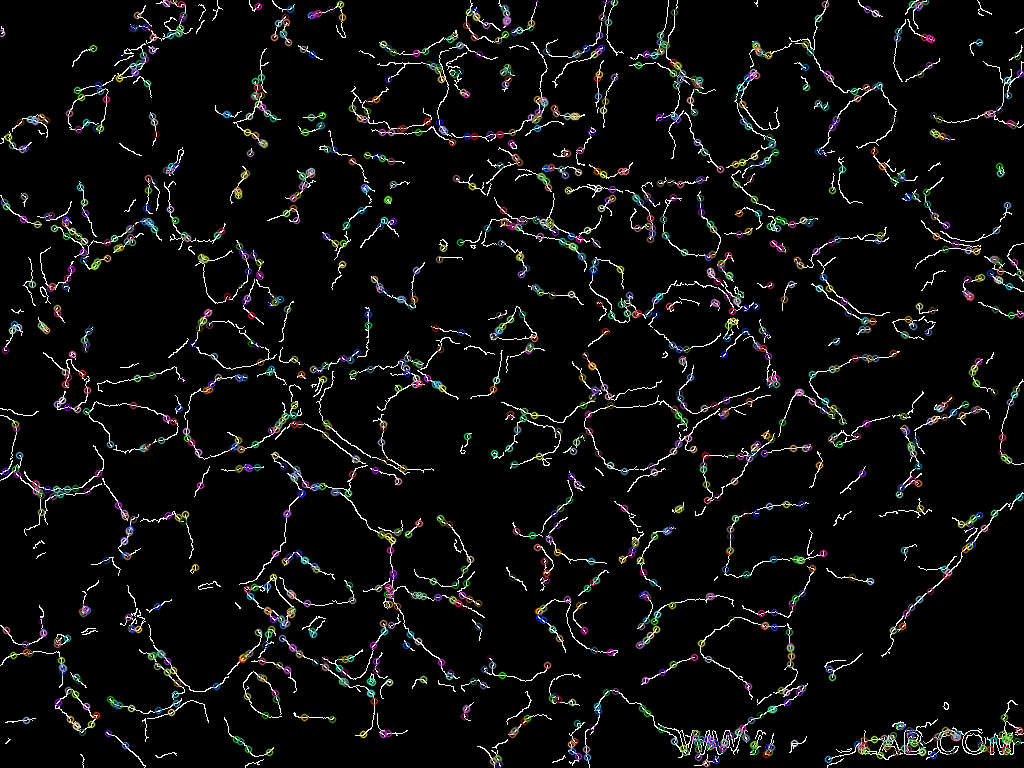
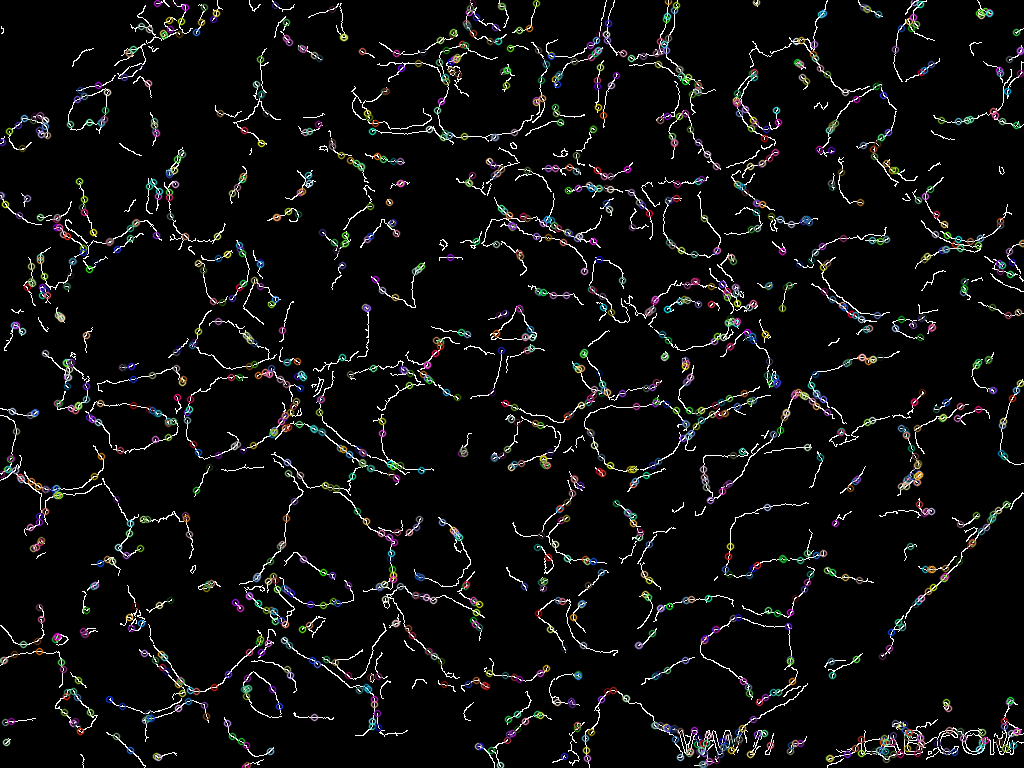
Minor refactoring

diff --git a/src/view/GUI.java b/src/view/GUI.java
@@ -16,7 +16,7 @@ public class GUI extends JFrame {
 
     public static int WIDTH = 600;
     public static int HEIGHT = 700;
-    private Graph graph;
+    private PlaneGraph graph;
     private List<PlaneVertex> vertices;
 
     private BufferedImage backgroundImage;
@@ -81,7 +81,7 @@ public class GUI extends JFrame {
     private void showCycles() {
         // Tworzenie modelu listy
         JFrame listFrame = new JFrame("Cycle list");
-        listFrame.setPreferredSize(new Dimension(600, 600));
+        listFrame.setPreferredSize(new Dimension(500, 500));
         listFrame.setDefaultCloseOperation(JFrame.DISPOSE_ON_CLOSE);
         listFrame.setLocationRelativeTo(null);
 
@@ -114,13 +114,14 @@ public class GUI extends JFrame {
             int x = vertex.getX();
             int y = vertex.getY();
 
-            g.setColor(Color.RED);
+            // Vertex color
+            g.setColor(Color.GREEN);
 
             g.fillOval(x - vertexRadius, y - vertexRadius, 2 * vertexRadius, 2 * vertexRadius);
-            g.setColor(Color.BLACK);
         }
 
-        g.setColor(Color.BLACK);
+        // Edge color
+        g.setColor(Color.RED);
         List<Edge> edges = graph.getEdges();
 
         for (Edge edge : edges) {
@@ -157,6 +158,8 @@ public class GUI extends JFrame {
 
     private void generateGraph() {
         vertices = ImageProcessing.generateKeypointsList();
+        System.out.println(vertices.size());
         graph = new PlaneGraph(vertices);
+        graph.generateRNGraph();
     }
 }

diff --git a/src/graphs/PlaneGraph.java b/src/graphs/PlaneGraph.java
@@ -1,7 +1,6 @@
 package graphs;
 
 import java.util.ArrayList;
-import java.util.HashMap;
 import java.util.List;
 
 @SuppressWarnings("unused")
@@ -10,9 +9,11 @@ public class PlaneGraph extends Graph {
     private final List<PlaneVertex> vertices;
 
     public PlaneGraph(List<PlaneVertex> vertices) {
-        this.adjacencyMap = new HashMap<>();
-        this.edges = new ArrayList<>();
+        super();
         this.vertices = vertices;
+        for (PlaneVertex vertex : vertices) {
+            addVertex(vertex.getID(), vertex.getX(), vertex.getY());
+        }
     }
 
     public void generateGabrielGraph() {
@@ -73,9 +74,9 @@ public class PlaneGraph extends Graph {
         }
     }
 
-    private void addVertex(int i, int x, int y) {
-        PlaneVertex vertex = new PlaneVertex(i, x, y);
+    private void addVertex(int id, int x, int y) {
+        PlaneVertex vertex = new PlaneVertex(id, x, y);
         adjacencyMap.put(vertex, new ArrayList<>());
-        vertices.add(vertex);
+//        vertices.add(vertex);
     }
 }

diff --git a/src/graphs/Vertex.java b/src/graphs/Vertex.java
@@ -2,6 +2,7 @@ package graphs;
 
 import java.util.Objects;
 
+@SuppressWarnings("unused")
 public class Vertex {
     private final int id;
 
